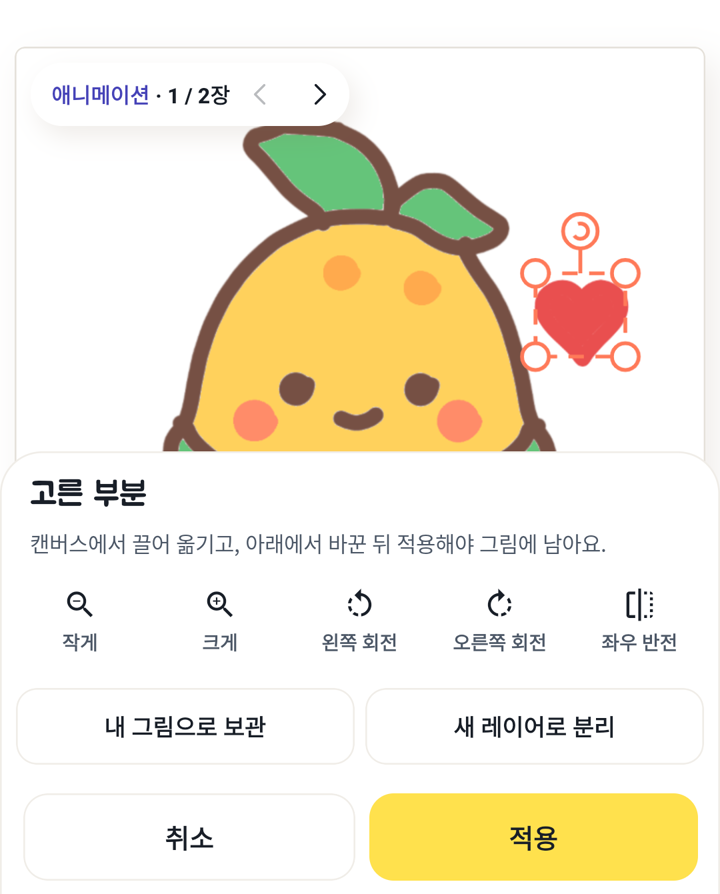
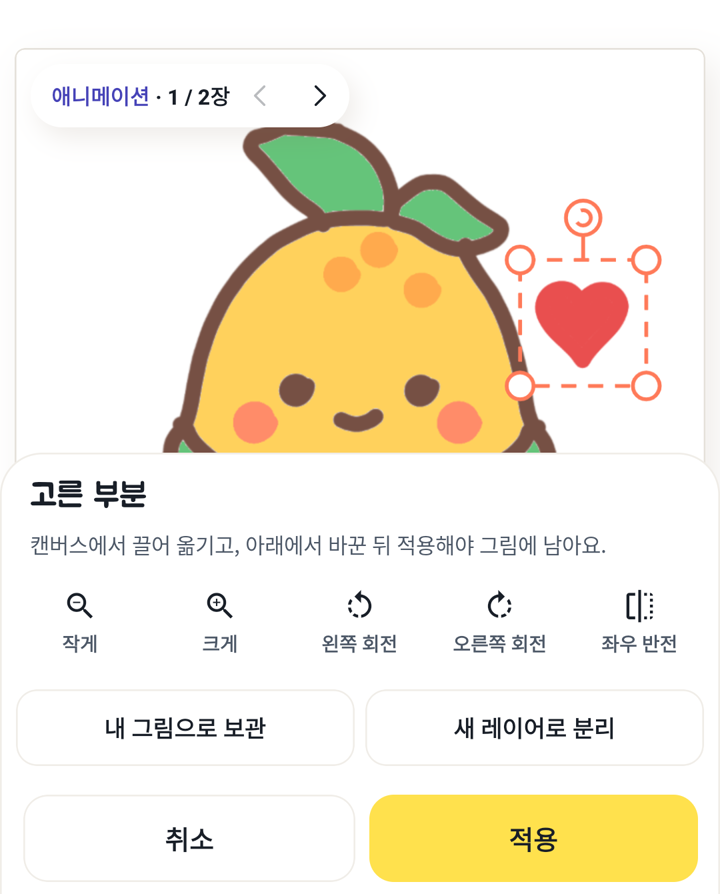
Lesson photos retaken from the current screens in ko/ja/zh-Hant: 'make a lesson' step 2/3 (lesson viewer with the new corn recording, and the summary) replace shots of the old lesson layout and old corn outline; brush/layer step 4 (selection panel) per language; capture scripts kept

diff --git a/src/constants/lesson-media.ts b/src/constants/lesson-media.ts
@@ -9,6 +9,7 @@ export const LESSON_MEDIA: Record<'ja' | 'zh-Hant', Record<string, number>> = {
     'brush-layer/step1.mp4': require('../../assets/lessons/brush-layer/ja/step1.mp4'),
     'brush-layer/step2.mp4': require('../../assets/lessons/brush-layer/ja/step2.mp4'),
     'brush-layer/step3.mp4': require('../../assets/lessons/brush-layer/ja/step3.mp4'),
+    'brush-layer/step4.png': require('../../assets/lessons/brush-layer/ja/step4.png'),
     'export/step1.mp4': require('../../assets/lessons/export/ja/step1.mp4'),
     'export/step2.mp4': require('../../assets/lessons/export/ja/step2.mp4'),
     'export/step3.mp4': require('../../assets/lessons/export/ja/step3.mp4'),
@@ -16,6 +17,8 @@ export const LESSON_MEDIA: Record<'ja' | 'zh-Hant', Record<string, number>> = {
     'first-set/step2.mp4': require('../../assets/lessons/first-set/ja/step2.mp4'),
     'first-set/step3.mp4': require('../../assets/lessons/first-set/ja/step3.mp4'),
     'first-set/step4.mp4': require('../../assets/lessons/first-set/ja/step4.mp4'),
+    'make-lesson/step2.png': require('../../assets/lessons/make-lesson/ja/step2.png'),
+    'make-lesson/step3.png': require('../../assets/lessons/make-lesson/ja/step3.png'),
     'motion/step1.mp4': require('../../assets/lessons/motion/ja/step1.mp4'),
     'motion/step2.mp4': require('../../assets/lessons/motion/ja/step2.mp4'),
     'motion/step3.mp4': require('../../assets/lessons/motion/ja/step3.mp4'),
@@ -43,6 +46,7 @@ export const LESSON_MEDIA: Record<'ja' | 'zh-Hant', Record<string, number>> = {
     'brush-layer/step1.mp4': require('../../assets/lessons/brush-layer/zh-Hant/step1.mp4'),
     'brush-layer/step2.mp4': require('../../assets/lessons/brush-layer/zh-Hant/step2.mp4'),
     'brush-layer/step3.mp4': require('../../assets/lessons/brush-layer/zh-Hant/step3.mp4'),
+    'brush-layer/step4.png': require('../../assets/lessons/brush-layer/zh-Hant/step4.png'),
     'export/step1.mp4': require('../../assets/lessons/export/zh-Hant/step1.mp4'),
     'export/step2.mp4': require('../../assets/lessons/export/zh-Hant/step2.mp4'),
     'export/step3.mp4': require('../../assets/lessons/export/zh-Hant/step3.mp4'),
@@ -50,6 +54,8 @@ export const LESSON_MEDIA: Record<'ja' | 'zh-Hant', Record<string, number>> = {
     'first-set/step2.mp4': require('../../assets/lessons/first-set/zh-Hant/step2.mp4'),
     'first-set/step3.mp4': require('../../assets/lessons/first-set/zh-Hant/step3.mp4'),
     'first-set/step4.mp4': require('../../assets/lessons/first-set/zh-Hant/step4.mp4'),
+    'make-lesson/step2.png': require('../../assets/lessons/make-lesson/zh-Hant/step2.png'),
+    'make-lesson/step3.png': require('../../assets/lessons/make-lesson/zh-Hant/step3.png'),
     'motion/step1.mp4': require('../../assets/lessons/motion/zh-Hant/step1.mp4'),
     'motion/step2.mp4': require('../../assets/lessons/motion/zh-Hant/step2.mp4'),
     'motion/step3.mp4': require('../../assets/lessons/motion/zh-Hant/step3.mp4'),
